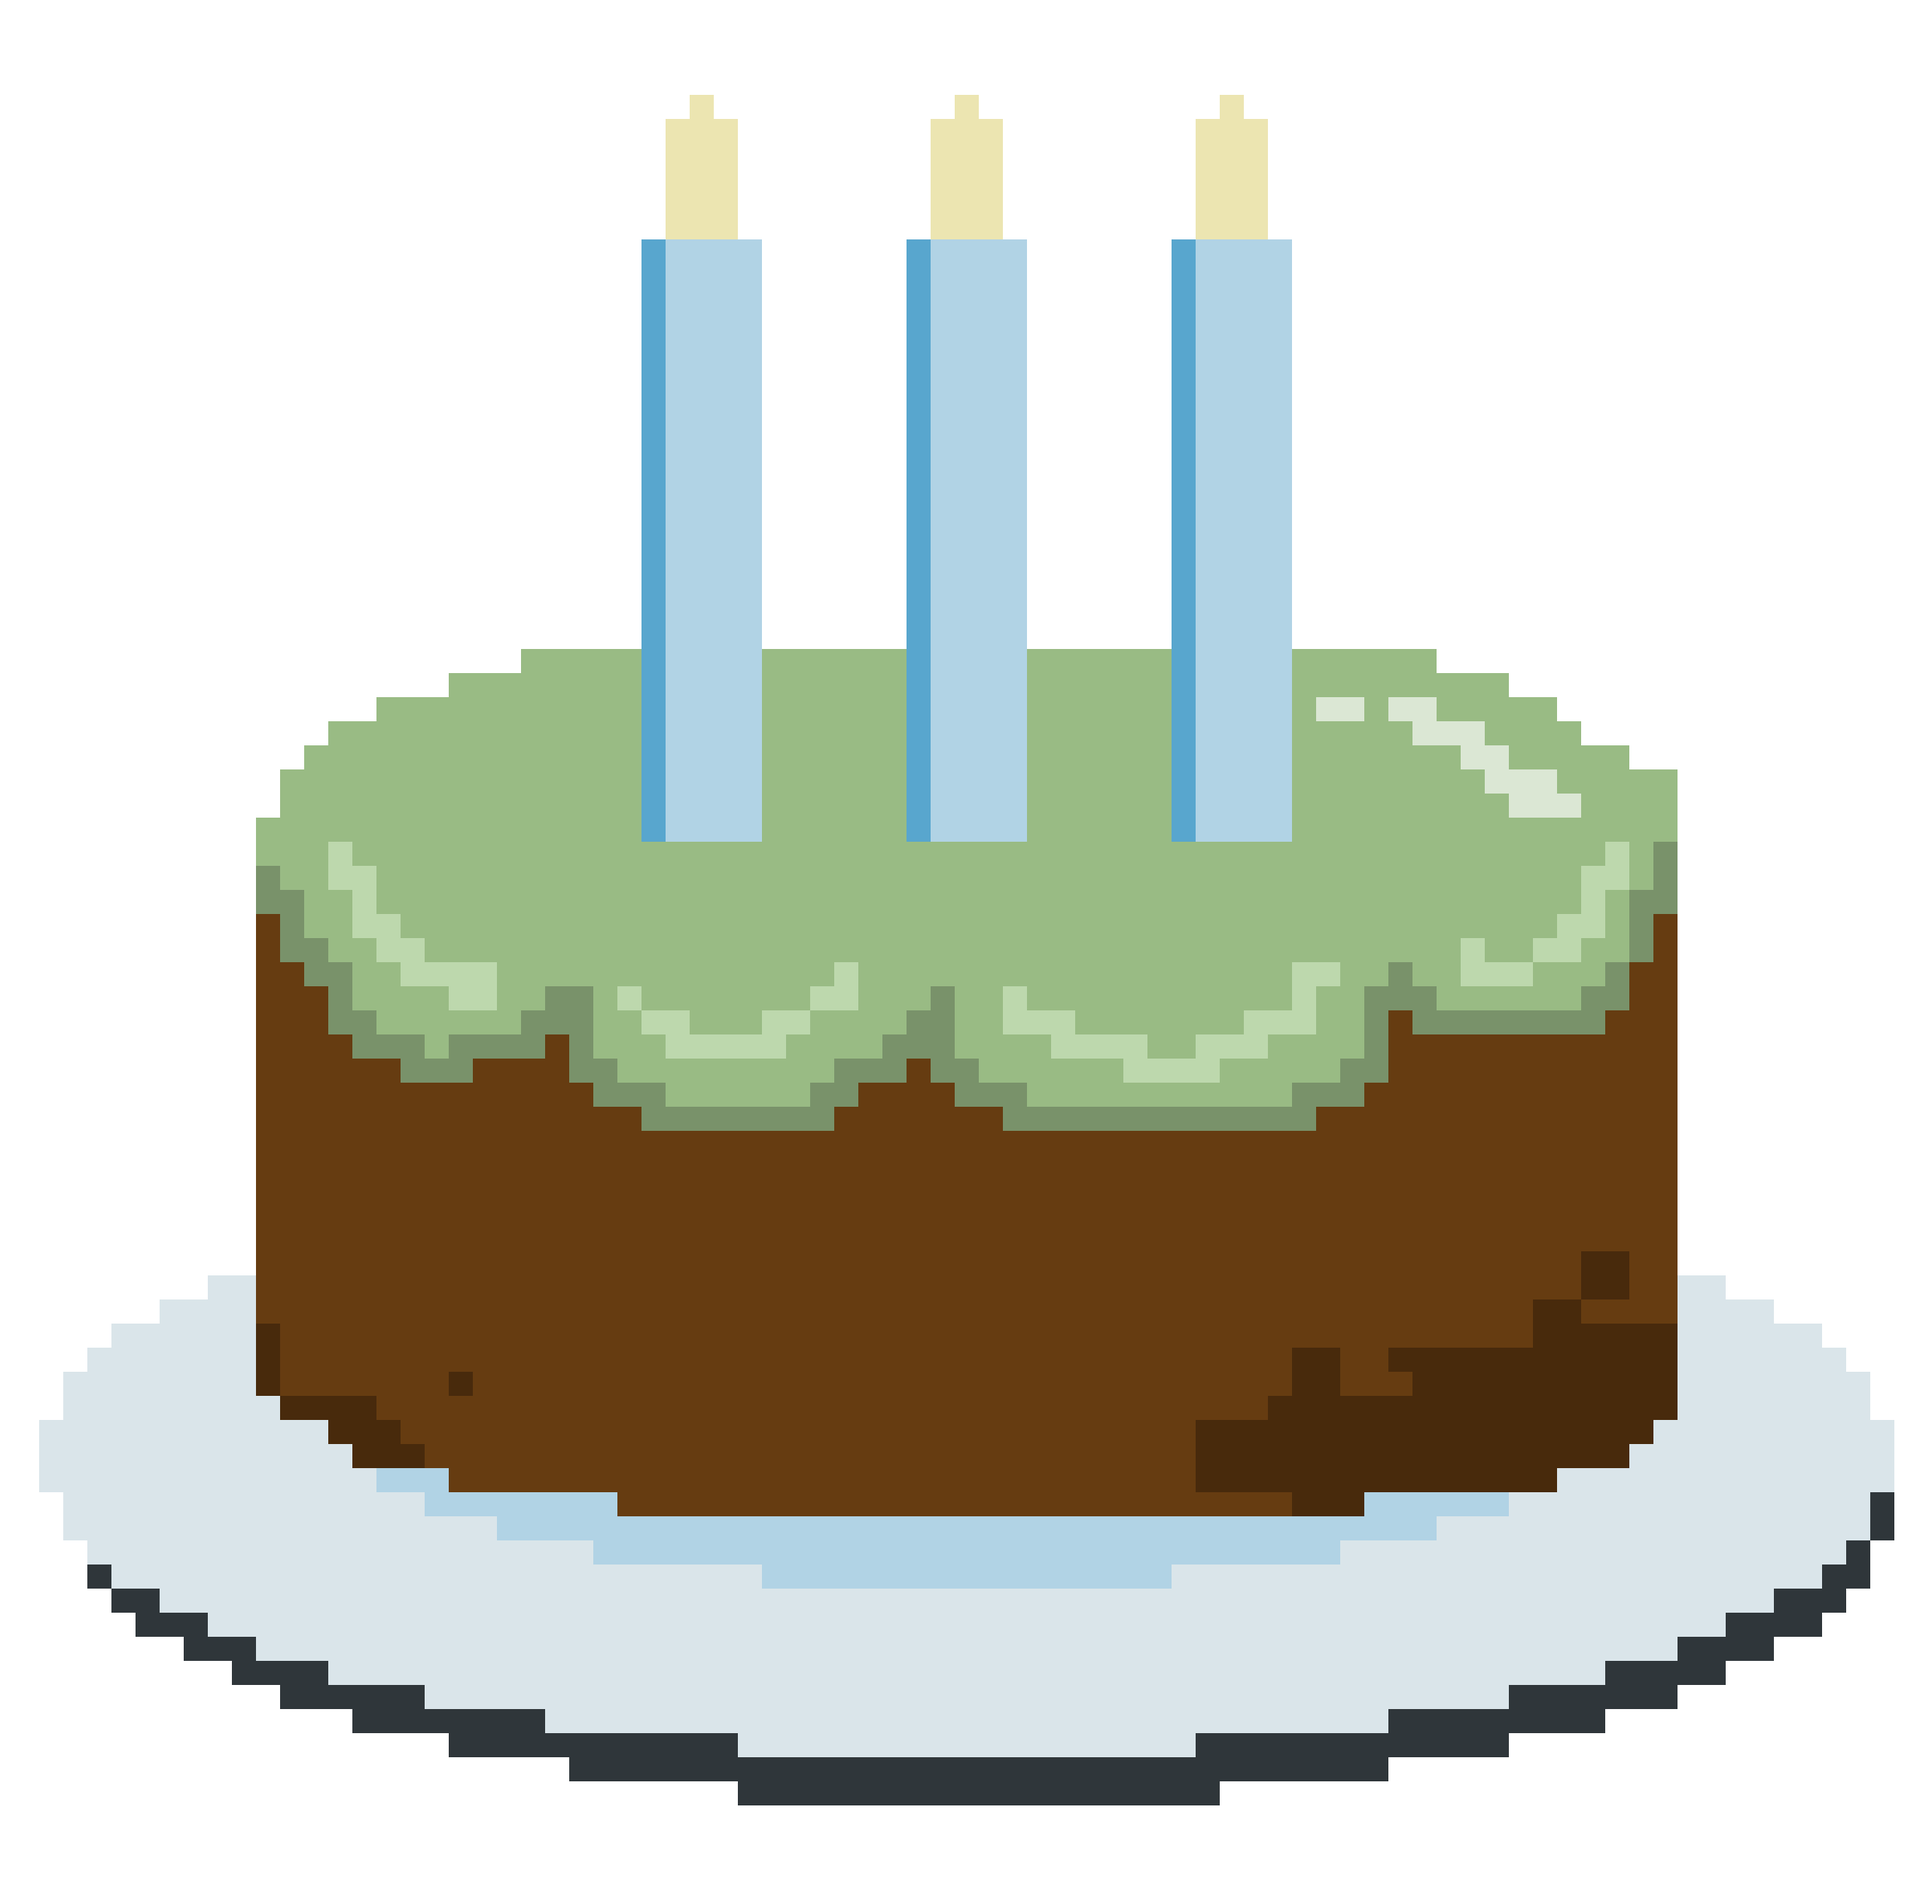
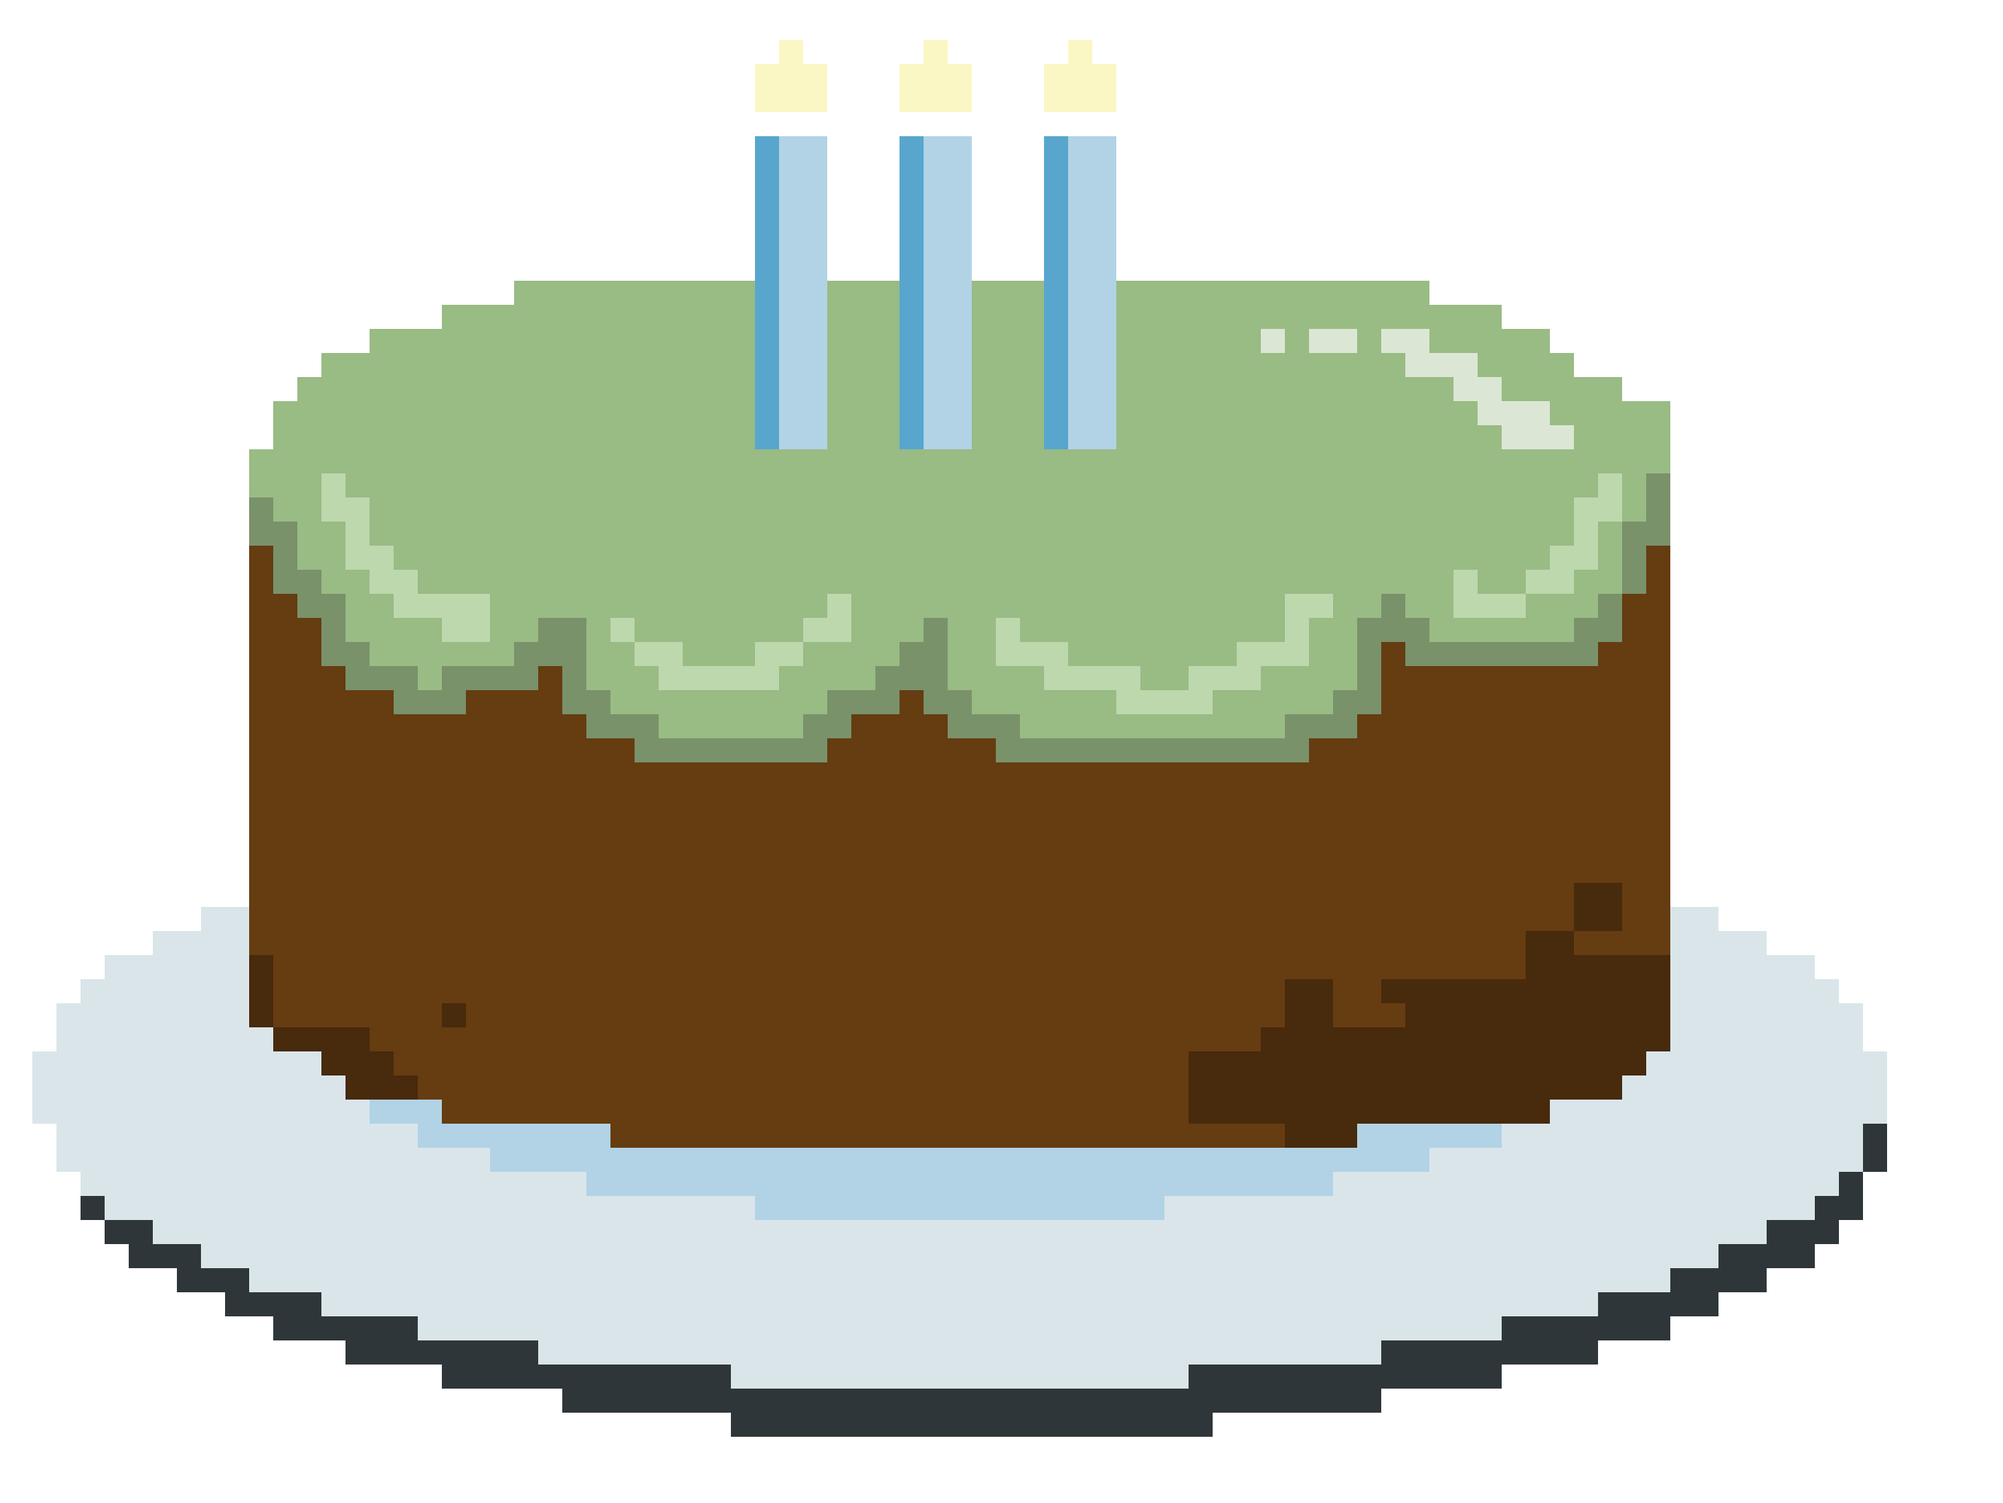
fixed height for strawberry and candles

diff --git a/src/app.js b/src/app.js
@@ -195,8 +195,8 @@ controls.addEventListener('dragend', function (event) {
             console.log(event.object.parent.name);
             scene.state.updateList[0].children[0].scale.set(WIDTH * 0.1, HEIGHT * 0.1, 1);
 
-            if (event.object.parent.name == "candles") {
-                scene.state.updateList[0].children[0].scale.set(WIDTH*0.1, HEIGHT*0.1 + HEIGHT*0.05, 1);
+            if (event.object.parent.name == "candles" || event.object.parent.name == "strawberry") {
+                scene.state.updateList[0].children[0].scale.set(WIDTH*0.1, HEIGHT*0.1 + HEIGHT*0.018, 1);
                 scene.state.updateList[0].children[0].scale.needsUpdate = true;
             }
             // scale the images properly

diff --git a/src/components/scenes/KitchenScene.js b/src/components/scenes/KitchenScene.js
@@ -58,7 +58,7 @@ class KitchenScene extends Scene {
         // 16000 x 10400
         // let ratio = 0.65;
         let ratio = height / width;
-        let new_width = width * 0.6;
+        let new_width = width * 0.7;
         sprite.scale.set(new_width, ratio * new_width, 1);
         // sprite.scale.set(width / 16000, height / 10400, 1);
         console.log(sprite.scale);
